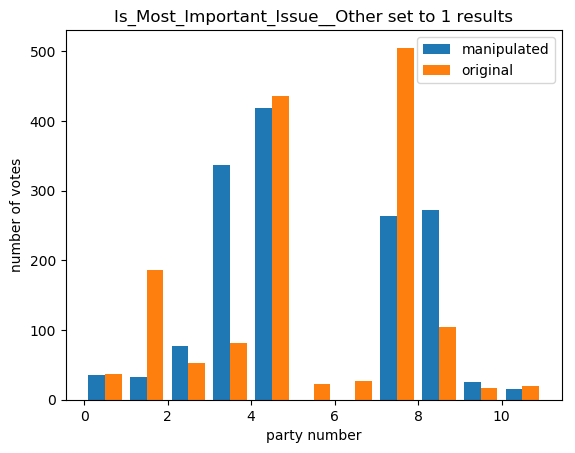
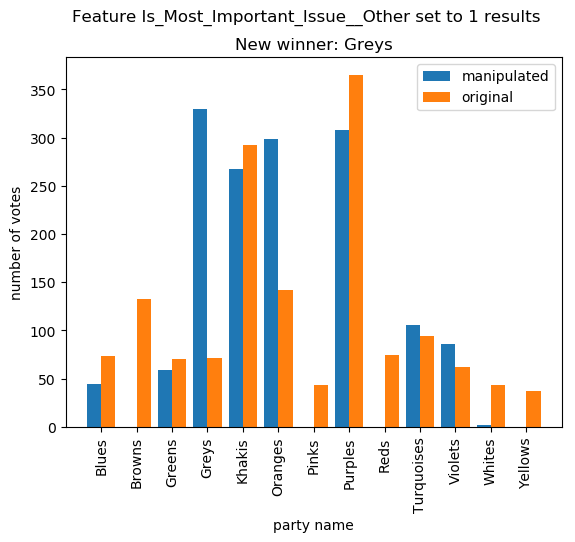
feature manipulator modified

diff --git a/feature_manipulator.py b/feature_manipulator.py
@@ -1,14 +1,19 @@
 import numpy as np
 import matplotlib.pyplot as plt
 from hist_plotter import plot_hist
+from hist_plotter import plot_3hist
 
 PATH_DRAMATIC_FEATURE = 'dramatic_feature'
+PRECISION = 3
+C_GROW_RANGE = np.arange(1, 20, 0.1)
+C_DEC_RANGE = np.arange(1, 0, 0.01)
 
 class featureManipulator():
-    def __init__(self, model, x_test, feature_names, party_dict):
+    def __init__(self, model, x_test, y_test, feature_names, party_dict):
         self.model = model[0]
         self.model_name = model[1]
         self.x_test = x_test
+        self.y_test = y_test
         self.party_dict = party_dict
         self.true_winner = 7
         self.feature_names = feature_names
@@ -38,15 +43,19 @@ class featureManipulator():
                 predictions = self.model.predict(alterated_x)
                 winner = max(set(predictions), key=predictions.tolist().count)
                 if winner != self.true_winner:
-                    title = self.feature_names[col] + ' set to 1 results'
-                    path = PATH_DRAMATIC_FEATURE + '\\' + self.feature_names[col] + '_set.png'
-                    plot_hist(path, title, predictions, true_predictions,
-                              'manipulated', 'original', self.party_dict)
-
+                    suptitle = 'Feature ' + self.feature_names[col] + ' set to 1 results'
                     winner_name = self.party_dict[winner]
+                    title = 'New winner: ' + winner_name
+                    path = PATH_DRAMATIC_FEATURE + '\\' + self.feature_names[col] + '_set.png'
+                    plot_3hist(path, title, predictions, true_predictions, self.y_test,
+                              'manipulated', 'original', 'true', self.party_dict, suptitle=suptitle)
+
+
                     print("If ", self.feature_names[col], " will be important to everyone, that will cause ",
                           winner_name,
                           " to win")
+                else:
+                    print('No change in predicton')
 
     def set_one_hot(self, x_data, col):
         assert self.feature_names[col] in self.one_hot_data
@@ -62,38 +71,39 @@ class featureManipulator():
         true_predictions = self.model.predict(self.x_test)
         for col in range(self.x_test.shape[1]):
             if self.feature_names[col] in self.continuous_data:
-                for c in np.arange(0, 10, 0.1):
+                for c in C_GROW_RANGE:
                     alterated_x = self.alterate_column(self.x_test, col, c)
                     predictions = self.model.predict(alterated_x)
                     winner = max(set(predictions), key=predictions.tolist().count)
                     if winner != self.true_winner:
-                        title = self.feature_names[col] + ' grow by ' + str(np.round(c, 2)) + ' results'
-
+                        suptitle = 'Feature ' + self.feature_names[col] + ' grow by ' + str(np.round(c, PRECISION))
+                        winner_name = self.party_dict[winner]
+                        title = 'New winner: ' + winner_name
                         path = PATH_DRAMATIC_FEATURE + '\\' + self.feature_names[col] + '_increased.png'
 
-                        plot_hist(path, title, predictions, true_predictions,
-                                  'manipulated', 'original', self.party_dict)
-                        winner_name = self.party_dict[winner]
-                        print("If ", self.feature_names[col], " will grow by ", np.round(c, 2), ", that will cause ", winner_name, " to win")
+                        plot_3hist(path, title, predictions, true_predictions, self.y_test,
+                                   'manipulated', 'original', 'true', self.party_dict, suptitle=suptitle)
+
+                        print("If ", self.feature_names[col], " will grow by ", np.round(c, PRECISION), ", that will cause ", winner_name, " to win")
                         break
-                for c in np.arange(0, -10, -0.1):
+                    else:
+                        print('No change in predicton')
+                for c in C_DEC_RANGE:
                     alterated_x = self.alterate_column(self.x_test, col, c)
                     predictions = self.model.predict(alterated_x)
                     winner = max(set(predictions), key=predictions.tolist().count)
                     if winner != self.true_winner:
-                        plt.hist([predictions, true_predictions], bins=13, label=['manipulated', 'original'])
-                        plt.legend()
-                        title = self.feature_names[col] + ' decreased by ' + str(np.round(c, 2)) + ' results'
-                        plt.ylabel('number of votes')
-                        plt.xlabel('party number')
-                        plt.title(title)
-                        fig = plt.gcf()
-                        path = PATH_DRAMATIC_FEATURE + '\\' + self.feature_names[col] + '_decreased.png'
-                        fig.savefig(path, bbox_inches='tight')
-                        plt.show()
+                        suptitle = 'Feature ' + self.feature_names[col] + ' decreased by ' + str(np.round(c, PRECISION))
                         winner_name = self.party_dict[winner]
-                        print("If ", self.feature_names[col], " will decrease by ", np.round(c, 2), ", that will cause ", winner_name, " to win")
+                        title = 'New winner: ' + winner_name
+                        path = PATH_DRAMATIC_FEATURE + '\\' + self.feature_names[col] + '_decreased.png'
+                        plot_3hist(path, title, predictions, true_predictions, self.y_test,
+                                   'manipulated', 'original', 'true', self.party_dict, suptitle=suptitle)
+
+                        print("If ", self.feature_names[col], " will decrease by ", np.round(c, PRECISION), ", that will cause ", winner_name, " to win")
                         break
+                    else:
+                        print('No change in predicton')
 
     def alterate_column(self, x_data, col, c):
         assert self.feature_names[col] in self.continuous_data

diff --git a/main.py b/main.py
@@ -30,8 +30,8 @@ def main():
 
     models = [svm.SVC(kernel='rbf', C=20, gamma='auto', probability=True),
               MLPClassifier([50], activation='relu', max_iter=1000),
-              KNeighborsClassifier(n_neighbors=3, weights='distance'),
-              RandomForestClassifier(n_estimators=50, max_depth=8, min_samples_split=0.01)]
+              KNeighborsClassifier(n_neighbors=5, weights='distance'),
+              RandomForestClassifier(n_estimators=50, max_depth=5, min_samples_split=0.01)]
     model_names = ['SVM_rbf',
                     'MLP[50]',
                     'KNN_distance',
@@ -44,19 +44,19 @@ def main():
     sl.fit()
     sl.score_accuracy()
     sl.score_who_win(graphic=False)
-    sl.score_transportation_prediction(graphic=False)
-    sl.score_division_prediction(graphic=False)
+    # sl.score_transportation_prediction(graphic=False)
+    # sl.score_division_prediction(graphic=False)
 
     sl.predict_winner(x_test)
-    sl.predict_vote_division(x_test)
-    sl.predict_transportation(x_test)
-    sl.draw_conf_matrix()
+    # sl.predict_vote_division(x_test)
+    # sl.predict_transportation(x_test)
+    # sl.draw_conf_matrix()
     #
-    # model = sl.get_best_winner_prediction_model()
-    # feature_names = dp.get_feature_names()
-    # fml = featureManipulator(model, x_test, feature_names, party_dict=dict)
-    # fml.find_continuous_dramatic_feature()
-    # fml.find_binary_dramatic_feature()
+    model = sl.get_best_winner_prediction_model()
+    feature_names = dp.get_feature_names()
+    fml = featureManipulator(model, x_test, y_test, feature_names, party_dict=dict)
+    fml.find_continuous_dramatic_feature()
+    fml.find_binary_dramatic_feature()
 
 if __name__ == "__main__":
     main()

diff --git a/model_selector.py b/model_selector.py
@@ -226,12 +226,15 @@ class modelSelector():
         print("best model for transportation is ", self.best_model_for_vote_prediction[1])
 
     def predict_winner(self, x_test):
-        model, model_name = self.best_model_for_winner_prediction
-        predictions = model.predict(x_test)
-        winner = max(set(predictions), key=predictions.tolist().count)
-        winner_name = self.party_dict[winner]
-        print(model_name," prediction - ", winner_name, " party will win the elections.")
-        return winner
+        if self.best_model_for_winner_prediction is not None:
+            model, model_name = self.best_model_for_winner_prediction
+            predictions = model.predict(x_test)
+            winner = max(set(predictions), key=predictions.tolist().count)
+            winner_name = self.party_dict[winner]
+            print(model_name," prediction - ", winner_name, " party will win the elections.")
+            return winner
+        else:
+            print("No best model for this task")
 
     def predict_vote_division(self, x_test):
         model, model_name = self.best_model_for_division_prediction

diff --git a/hist_plotter.py b/hist_plotter.py
@@ -17,3 +17,19 @@ def plot_hist(path, title, hist1, hist2, lbl1, lbl2, dict, save=True, suptitle=N
     fig = plt.gcf()
     fig.savefig(path, bbox_inches='tight')
     plt.show()
+
+def plot_3hist(path, title, hist1, hist2, hist3, lbl1, lbl2, lbl3, dict, save=True, suptitle=None):
+    plt.hist([hist1, hist2, hist3], bins=np.arange(14) - 0.5, label=[lbl1, lbl2, lbl3])
+    plt.xlim([-1, 13])
+    plt.legend()
+    keys = list(dict.keys())
+    values = list(dict.values())
+    plt.xticks(keys, values, rotation='vertical')
+    plt.ylabel('number of votes')
+    plt.xlabel('party name')
+    if suptitle is not None:
+        plt.suptitle(suptitle)
+    plt.title(title)
+    fig = plt.gcf()
+    fig.savefig(path, bbox_inches='tight')
+    plt.show()

diff --git a/report.tex b/report.tex
@@ -348,7 +348,7 @@ Party  Yellows : 3.8 %
 
 \newpage
 \section{Feature manipulation}
-FINISH
+In this section we will describe our implementation of bonus part of feature manipulation which will cause other party to win. To complete this task we've created a class $featureMAnipulator$ which automatically finds features which will cause other party to win.
 
 
 
